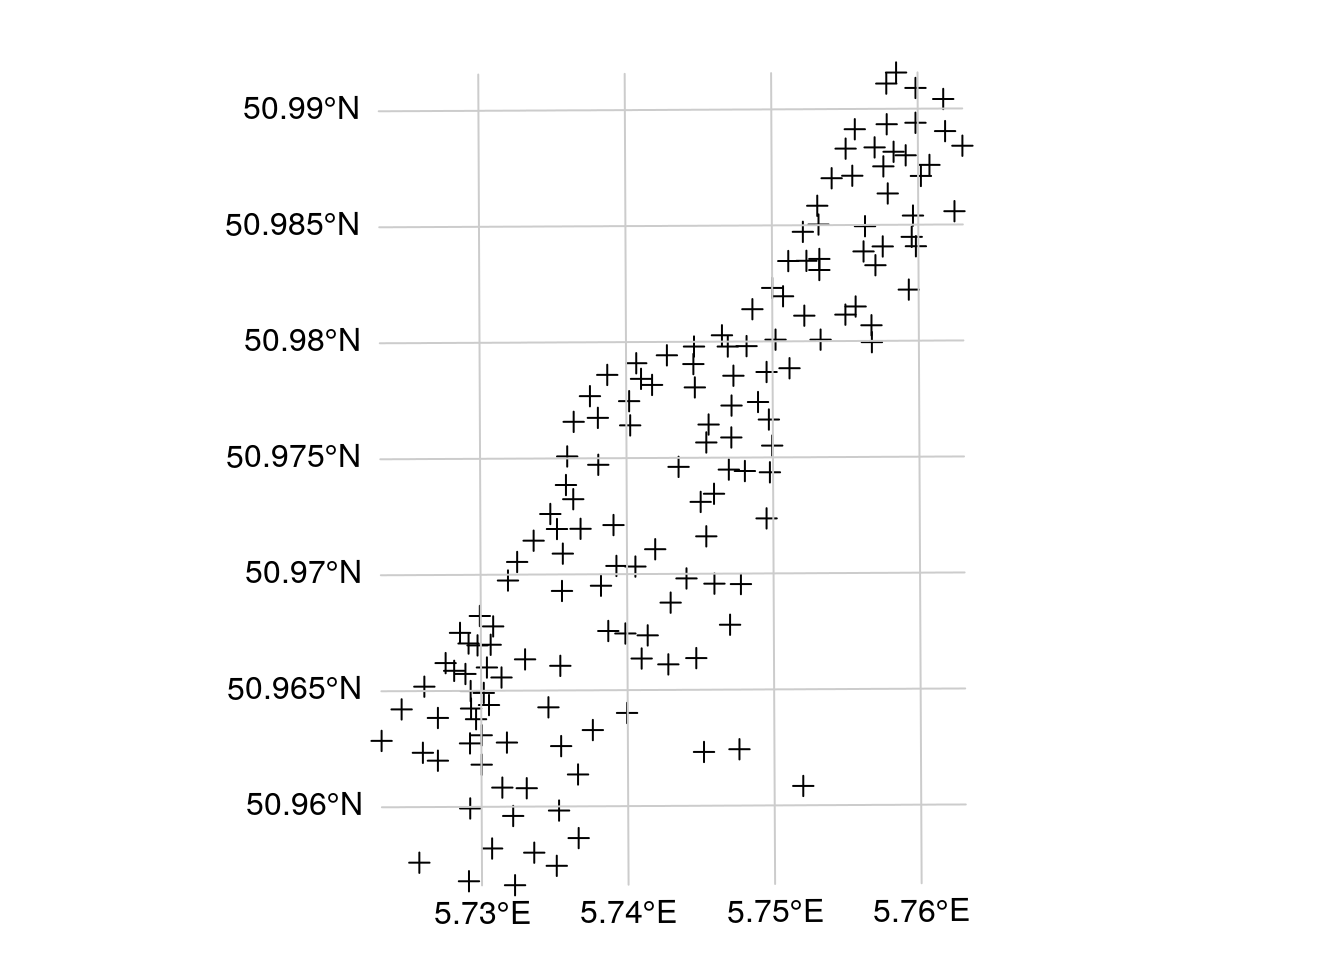
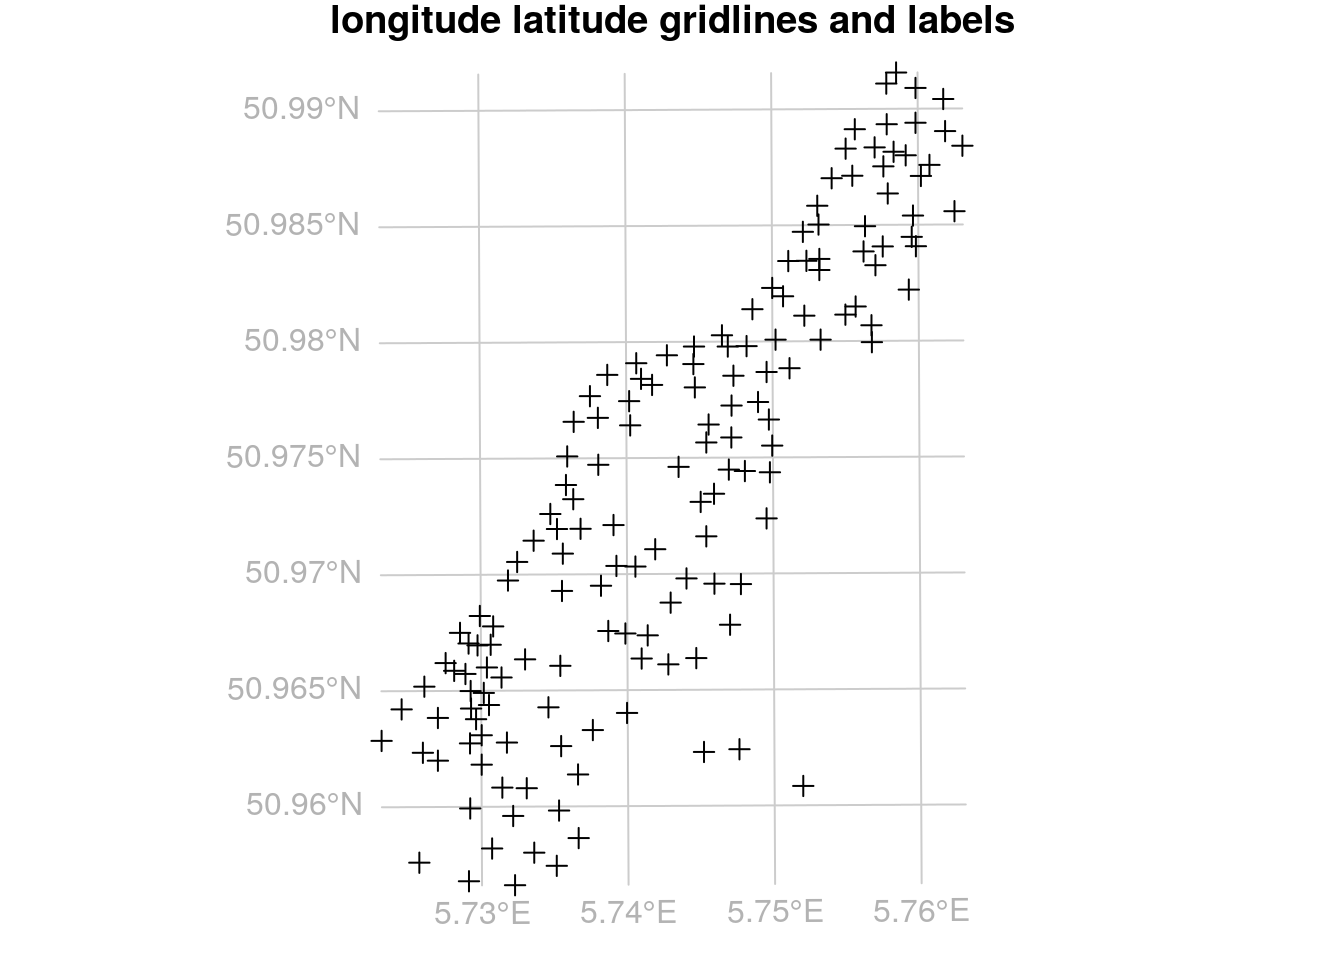
optimise

diff --git a/index.html b/index.html
@@ -165,18 +165,19 @@ plot(meuse.longlat, asp = 1)</code></pre>
 <pre class="r"><code>par(mar = c(0, 0, 1, 0))
 library(methods) # as
 plot(as(meuse, &quot;Spatial&quot;), expandBB = c(.05, 0, 0, 0))
+plot(gridlines(meuse), add = TRUE, col = grey(.8))
 plot(meuse, add = TRUE)
-plot(gridlines(meuse), add = TRUE)
-text(labels(gridlines(meuse)))
-title(&quot;default gridlines within Meuse bounding box&quot;)</code></pre>
+text(labels(gridlines(meuse)), col = grey(.7))
+title(&quot;default gridlines with Meuse projected data&quot;)</code></pre>
 <p><img src="sp_gallery_files/figure-html/unnamed-chunk-8-1.png" title="" alt="" width="672" /></p>
 <pre class="r"><code>par(mar = c(0, 0, 1, 0))
 grd &lt;- gridlines(meuse.longlat)
 grd_x &lt;- spTransform(grd, CRS(proj4string(meuse)))
 plot(as(meuse, &quot;Spatial&quot;), expandBB = c(.05, 0, 0, 0))
-plot(meuse, add = TRUE)
 plot(grd_x, add=TRUE, col = grey(.8))
-text(labels(grd_x, crs.longlat))</code></pre>
+plot(meuse, add = TRUE)
+text(labels(grd_x, crs.longlat), col = grey(.7))
+title(&quot;longitude latitude gridlines and labels&quot;)</code></pre>
 <p><img src="sp_gallery_files/figure-html/unnamed-chunk-9-1.png" title="" alt="" width="672" /></p>
 <p>These lines look pretty straight, because it concerns a small area. For</p>
 <pre class="r"><code># demonstrate axis labels with angle, both sides:

diff --git a/sp_gallery.html b/sp_gallery.html
@@ -165,18 +165,19 @@ plot(meuse.longlat, asp = 1)</code></pre>
 <pre class="r"><code>par(mar = c(0, 0, 1, 0))
 library(methods) # as
 plot(as(meuse, &quot;Spatial&quot;), expandBB = c(.05, 0, 0, 0))
+plot(gridlines(meuse), add = TRUE, col = grey(.8))
 plot(meuse, add = TRUE)
-plot(gridlines(meuse), add = TRUE)
-text(labels(gridlines(meuse)))
-title(&quot;default gridlines within Meuse bounding box&quot;)</code></pre>
+text(labels(gridlines(meuse)), col = grey(.7))
+title(&quot;default gridlines with Meuse projected data&quot;)</code></pre>
 <p><img src="sp_gallery_files/figure-html/unnamed-chunk-8-1.png" title="" alt="" width="672" /></p>
 <pre class="r"><code>par(mar = c(0, 0, 1, 0))
 grd &lt;- gridlines(meuse.longlat)
 grd_x &lt;- spTransform(grd, CRS(proj4string(meuse)))
 plot(as(meuse, &quot;Spatial&quot;), expandBB = c(.05, 0, 0, 0))
-plot(meuse, add = TRUE)
 plot(grd_x, add=TRUE, col = grey(.8))
-text(labels(grd_x, crs.longlat))</code></pre>
+plot(meuse, add = TRUE)
+text(labels(grd_x, crs.longlat), col = grey(.7))
+title(&quot;longitude latitude gridlines and labels&quot;)</code></pre>
 <p><img src="sp_gallery_files/figure-html/unnamed-chunk-9-1.png" title="" alt="" width="672" /></p>
 <p>These lines look pretty straight, because it concerns a small area. For</p>
 <pre class="r"><code># demonstrate axis labels with angle, both sides:
